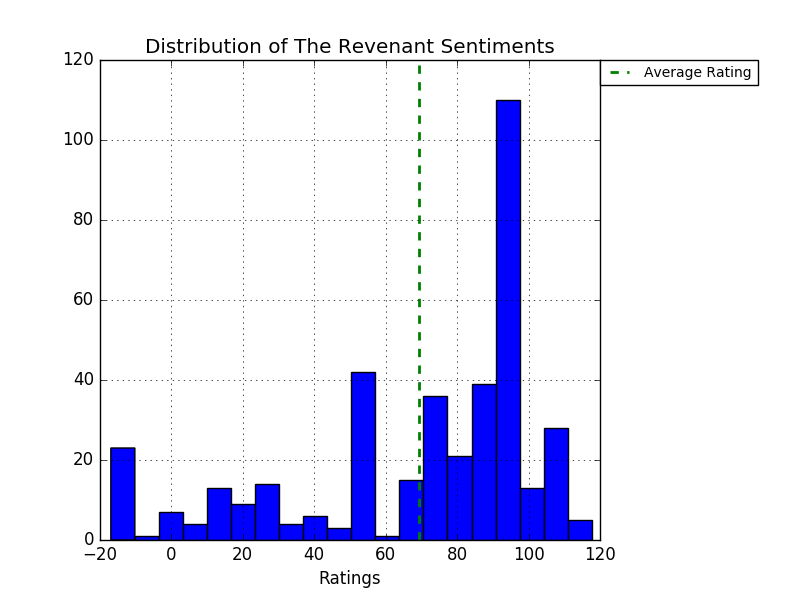
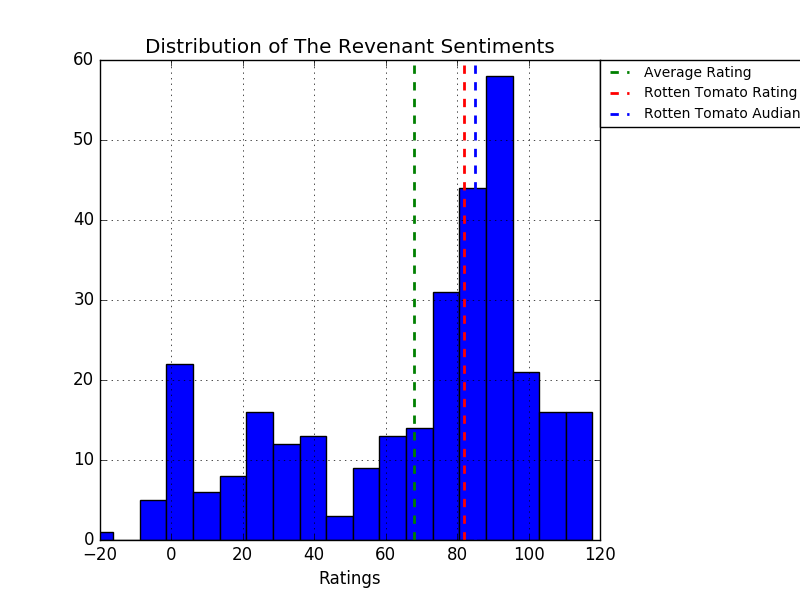
fixed movie rating retrieval

diff --git a/DjangoThings/outer_bird/get_rating/plots.py b/DjangoThings/outer_bird/get_rating/plots.py
@@ -24,7 +24,7 @@ def create_hist(query, category = None):
     if category == 'movie':
         query.find_movie_rating()
         if query.tomato_rating != None: 
-            plt.axvline(query.tomato_rating, color = 'r', label = 'Rotten Tomato Rating', linestyle=' ashed', linewidth=2)
+            plt.axvline(query.tomato_rating, color = 'r', label = 'Rotten Tomato Rating', linestyle='dashed', linewidth=2)
         if query.tomato_audiance_score != None:
             plt.axvline(query.tomato_audiance_score, color= 'b', label = 'Rotten Tomato Audiance Score', linestyle='dashed', linewidth=2)
     if category == 'book':

diff --git a/DjangoThings/outer_bird/get_rating/doesthething.py b/DjangoThings/outer_bird/get_rating/doesthething.py
@@ -12,7 +12,8 @@ def thething(string, category):
 		get_rating.sentiment.nltk_vader(query, category)
 		try:
 			plt = get_rating.plots.create_hist(query,category)
-		except:
+		except ValueError:
+			print(ValueError)
 			return ('Not enought tweets! Please try again', '', '', '')
 		get_rating.plots.create_cloud(query)
 		return (str(np.round(query.avg_rate,2)),query.best.text,query.worst.text,plt)

diff --git a/DjangoThings/outer_bird/get_rating/tweets.py b/DjangoThings/outer_bird/get_rating/tweets.py
@@ -74,8 +74,8 @@ class Query(object):
         title = 't={}'.format('+'.join(title_words))
         url += title + parameters
         r = requests.get(url)
-        if r.status_code == 200:
-            return
+        #if r.status_code == 200:
+        #    return
         read = r.text
         info_dict = json.loads(read)
         try:
